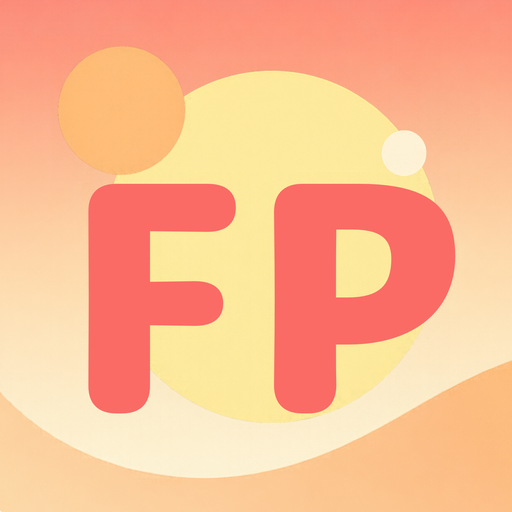
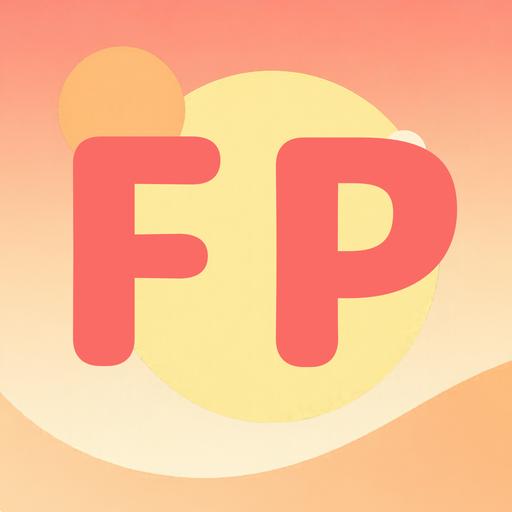
FPポケット：アイコンを更新し、無料プランの説明を最新3回に変更

Changed region(s): [[0.125, 0.25, 0.4688, 0.8125], [0.5312, 0.25, 0.9062, 0.8125]]

diff --git a/FP-Pocket/index.html b/FP-Pocket/index.html
@@ -186,7 +186,7 @@
                     </div>
                     <div class="feature">
                         <h3>模擬試験</h3>
-                        <p>本番と同じ出題形式・問題数で、ランダムに出題します（無料版は最新回の問題から、プレミアムはすべての回から）。合格ラインに届いたかと、分野ごとの正答率がわかります。</p>
+                        <p>本番と同じ出題形式・問題数で、ランダムに出題します（無料版は最新3回の問題から、プレミアムはすべての回から）。合格ラインに届いたかと、分野ごとの正答率がわかります。</p>
                     </div>
                     <div class="feature">
                         <h3>苦手を見える化</h3>
@@ -235,7 +235,7 @@
                 <div class="card">
                     <p style="margin-bottom: 12px">
                         <strong>基本の機能は無料で使えます。</strong>
-                        無料版では、各級の最新回の過去問をまるごと解けるほか、最新回の問題で一問一答を1日10問まで解けます。画面下部などに広告が表示されます。
+                        無料版では、各級の最新3回の過去問をまるごと解けるほか、最新3回の問題で一問一答を1日10問まで解けます。画面下部などに広告が表示されます。
                     </p>
                     <table class="pricing">
                         <tr>

diff --git a/FP-Pocket/support.html b/FP-Pocket/support.html
@@ -145,7 +145,7 @@
 
                 <div class="card" style="margin-bottom: 12px">
                     <h3>無料でどこまで使えますか？</h3>
-                    <p>2級・3級それぞれの最新回の過去問（学科・実技）をまるごと解けます。一問一答も、最新回の問題から1日10問まで解けます。模擬試験は、最新回の問題から出題されます。画面下部などに広告が表示されます。</p>
+                    <p>2級・3級それぞれの最新3回の過去問（学科・実技）をまるごと解けます。一問一答も、最新3回の問題から1日10問まで解けます。模擬試験は、最新3回の問題から出題されます。画面下部などに広告が表示されます。</p>
                 </div>
 
                 <div class="card" style="margin-bottom: 12px">
